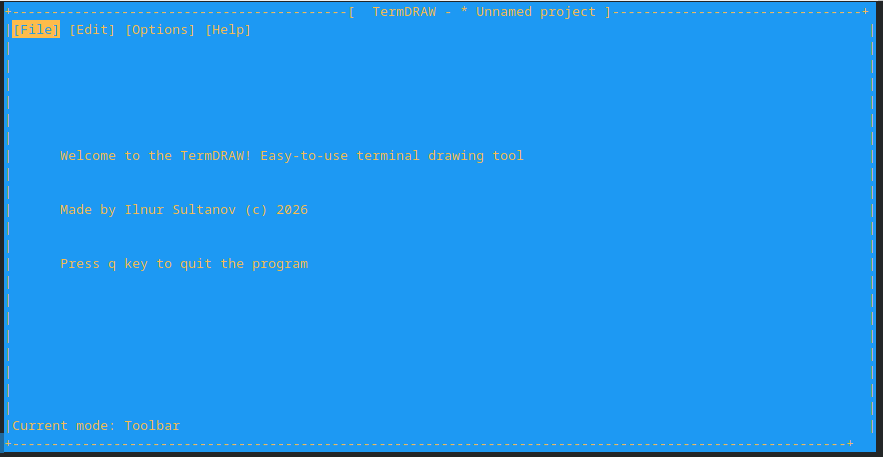
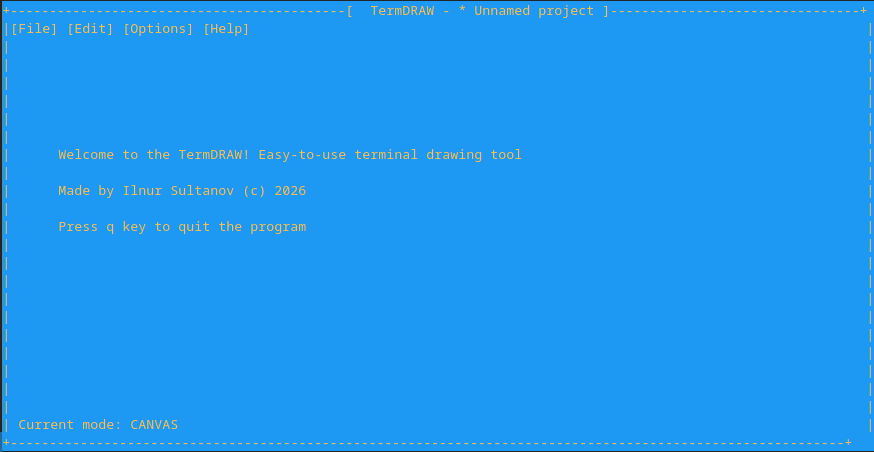
feat: added screenshot

diff --git a/src/Focus.cpp b/src/Focus.cpp
@@ -3,14 +3,14 @@
 std::string getCurrentMode(Focus currentFocus) {
         switch (currentFocus) {
                 case Focus::None:
-                return "None";
+                return "NONE";
                 case Focus::Toolbar:
-                return "Toolbar";
+                return "TOOLBAR";
                 case Focus::MenuPopup:
-                return "MenuPopup";
+                return "MENU POPUP";
                 case Focus::Canvas:
-                return "Canvas";
+                return "CANVAS";
                 default:
-                return "Unknown";
+                return "UNKNOWN";
         }
 }

diff --git a/src/Toolbar.cpp b/src/Toolbar.cpp
@@ -24,7 +24,7 @@ void Toolbar::draw(Focus currentFocus) {
             std::cout << " ";
         i++;
     }
-    moveCursor(2, getTerminalSize().y - 1);
+    moveCursor(3, getTerminalSize().y - 1);
     std::cout << "Current mode: " << getCurrentMode(currentFocus);
 }
 
